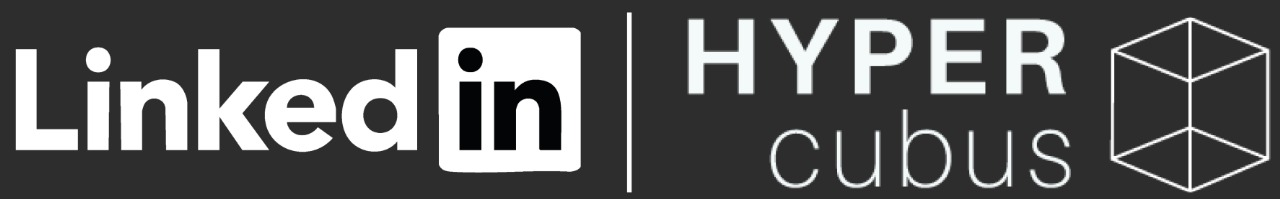
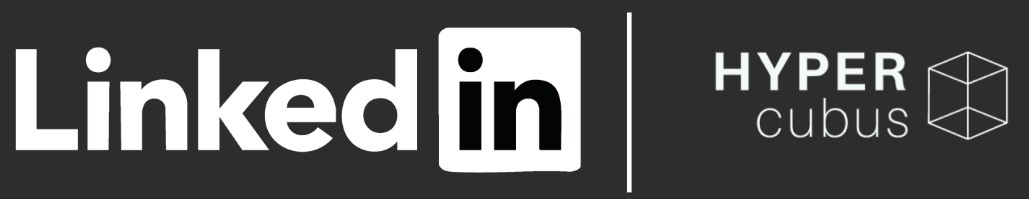
Ajustes visuales, se agrega footer y nuevas imagenes

diff --git a/src/components/cuestionario/components/ListaPreguntas.vue b/src/components/cuestionario/components/ListaPreguntas.vue
@@ -35,13 +35,6 @@
                   </div>
                 </div>
                 
-                <div class="valoracion-cuantitativa">
-                  <span v-if="respuestasLocales[pregunta.id]" 
-                        class="valor-respuesta"
-                        :class="getValorClass(respuestasLocales[pregunta.id])">
-                    {{ calcularPuntajePregunta(respuestasLocales[pregunta.id], opciones) }} puntos
-                  </span>
-                </div>
               </div>
             </div>
           </div>
@@ -93,6 +86,14 @@
           <div class="resultado-general">
             <h2 class="resultado-titulo-simple">Resultado del Diagnóstico</h2>
             
+            <div class="clasificacion-container">
+              <p class="clasificacion-mensaje">Tus procesos internos de gestión del talento humano se encuentra en
+                <span :class="['clasificacion-texto', getClasificacionClass()]">
+                  <strong>{{ getClasificacionTexto().toUpperCase() }}</strong>
+                </span>
+              </p>
+            </div>
+
             <div class="bootcamp-invitacion">
               <p class="bootcamp-mensaje">
                 Te invitamos a participar en el bootcamp donde podrás acceder a los resultados completos utilizando referentes de la industria
@@ -341,7 +342,7 @@ export default {
       if (!this.datosCompletos) {
         this.alertaTitulo = 'Datos Incompletos'
         this.alertaMensaje = 'Por favor, completa todos los <strong>datos iniciales</strong> antes de ver el resultado.'
-        this.alertaSubmensaje = 'Verifica que hayas completado: Nombre de la empresa, NIT, Sector, Número de empleados, Nombre completo de quien diligencia, Cargo y Correo electrónico.'
+  this.alertaSubmensaje = 'Verifica que hayas completado: Nombre de la empresa, NIT, Sector, Nombre completo de quien diligencia, Cargo y Correo electrónico.'
         this.mostrarAlerta = true
         return
       }
@@ -561,6 +562,46 @@ th {
   justify-content: center;
 }
 
+/* Responsive: questions (left) and answers (right) on larger screens */
+@media (min-width: 900px) {
+  .pregunta-item .pregunta-container {
+    display: flex;
+    gap: 1rem;
+    align-items: flex-start;
+  }
+
+  .pregunta-item .pregunta-header {
+    flex: 0 0 65%; /* left column: question text */
+    padding-right: 1rem;
+  }
+
+  .pregunta-item .pregunta-contenido {
+    flex: 1 1 35%; /* right column: answers */
+    display: flex;
+    align-items: center;
+    justify-content: flex-start;
+  }
+
+  /* Make radio options align to the right column nicely */
+  .pregunta-item .opciones-grupo {
+    justify-content: flex-start;
+    flex-wrap: wrap;
+  }
+}
+
+/* Mobile: stack question and answers */
+@media (max-width: 899px) {
+  .pregunta-item .pregunta-container {
+    display: block;
+  }
+  .pregunta-item .pregunta-header {
+    padding-right: 0;
+  }
+  .pregunta-item .pregunta-contenido {
+    margin-top: 0.75rem;
+  }
+}
+
 .opcion-radio {
   display: flex;
   align-items: center;
@@ -673,6 +714,30 @@ input[type="radio"]:checked {
   font-size: 1.5rem;
   color: #0067b1;
   margin: 0;
+}
+
+/* Clasificación resaltada en modal */
+.clasificacion-container {
+  margin: 1rem 0;
+  text-align: center;
+}
+
+.clasificacion-mensaje {
+  font-size: 1rem;
+  color: white;
+  margin: 0.5rem 0 1rem;
+}
+
+.clasificacion-texto {
+  font-weight: 800;
+  text-transform: uppercase;
+  margin-left: 0.25rem;
+}
+
+.clasificacion-crecimiento,
+.clasificacion-maduracion,
+.clasificacion-consolidacion {
+  color: #FFD000; /* usar color amarillo consistente */
 }
 
 .mensaje-advertencia {

diff --git a/src/components/cuestionario/Cuestionario.vue b/src/components/cuestionario/Cuestionario.vue
@@ -37,11 +37,19 @@
       </div>
     </div>
     
-    <!-- Fixed footer with LinkedIn icon -->
+    <!-- Fixed footer with three images (left, center LinkedIn, right). Images are non-clickable. -->
     <footer class="fixed-footer" role="contentinfo" aria-label="Pie de página">
-      <a href="https://www.linkedin.com" target="_blank" rel="noopener noreferrer" aria-label="LinkedIn">
-        <img class="linkedin-icon" src="https://cdn.jsdelivr.net/npm/simple-icons@v7/icons/linkedin.svg" alt="LinkedIn" />
-      </a>
+      <div class="footer-left">
+        <img src="@/assets/img-spe.jpeg" alt="SPE" class="footer-logo footer-left-logo" />
+      </div>
+
+      <div class="footer-center" aria-hidden="false">
+        <img class="linkedin-icon" src="@/assets/img-linkedin.jpeg" alt="LinkedIn" />
+      </div>
+
+      <div class="footer-right">
+        <img src="@/assets/img-supersubsidio.jpeg" alt="Supersubsidio" class="footer-logo footer-right-logo" />
+      </div>
     </footer>
   </div>
 </template>
@@ -227,11 +235,12 @@ export default {
   right: 0;
   bottom: 0;
   height: 56px;
-  background: #ffffff;
-  border-top: 1px solid #e6e6e6;
+  background: #2D2D2D;
+  border-top: 1px solid rgba(255,255,255,0.06);
   display: flex;
   align-items: center;
-  justify-content: center;
+  justify-content: space-between;
+  padding: 0 1rem;
   z-index: 10000;
 }
 
@@ -242,9 +251,35 @@ export default {
 }
 
 .linkedin-icon {
-  width: 22px;
-  height: 22px;
-  filter: invert(16%) sepia(80%) saturate(2375%) hue-rotate(1deg) brightness(100%) contrast(92%);
+  height: 100%;
+  max-height: 52px;
+  object-fit: contain;
+  display: block;
+}
+
+.footer-logo {
+  height: 36px;
+  object-fit: contain;
+  display: block;
+}
+
+/* Right-side supersubsidio logo should be larger */
+.footer-right-logo {
+  height: 48px;
+  max-height: 52px;
+}
+
+.footer-left,
+.footer-right {
+  display: flex;
+  align-items: center;
+}
+
+.footer-center {
+  display: flex;
+  align-items: center;
+  justify-content: center;
+  flex: 0 0 auto;
 }
 
 /* Ensure content is not hidden behind the fixed footer */

diff --git a/src/components/reportes/components/DatosGrid.vue b/src/components/reportes/components/DatosGrid.vue
@@ -76,12 +76,7 @@
                 {{ direccionOrden === 'asc' ? '↑' : '↓' }}
               </span>
             </th>
-            <th @click="ordenarPor('empleados')" class="sortable">
-              Número de empleados
-              <span class="sort-icon" v-if="ordenActual === 'empleados'">
-                {{ direccionOrden === 'asc' ? '↑' : '↓' }}
-              </span>
-            </th>
+            <!-- Número de empleados column removed (field no longer collected in the form) -->
             <th @click="ordenarPor('contacto')" class="sortable">
               Nombre quien diligenció
               <span class="sort-icon" v-if="ordenActual === 'contacto'">
@@ -114,7 +109,7 @@
             <td class="empresa-cell">{{ registro.empresa }}</td>
             <td>{{ registro.nit }}</td>
             <td>{{ registro.sector }}</td>
-            <td>{{ registro.empleados }}</td>
+            <!-- registro.empleados removed -->
             <td class="contacto-cell">{{ registro.contacto }}</td>
             <td>{{ registro.cargo }}</td>
             <td>{{ registro.email }}</td>
@@ -242,7 +237,7 @@ export default {
           empresa: item.company || '',
           nit: item.nit || '',
           sector: item.sector || '',
-          empleados: item.employees_number || 0,
+          // empleados field removed from grid mapping - form no longer collects it
           contacto: item.chief_name || '',
           cargo: item.company_role || '',
           email: item.chief_email || '',

diff --git a/src/components/cuestionario/components/DescripcionCuestionario.vue b/src/components/cuestionario/components/DescripcionCuestionario.vue
@@ -214,6 +214,8 @@ export default {
   box-shadow: 0 6px 2px rgba(0, 0, 0, 0.1);
   text-align: left;
   display: flex;
+  justify-content: space-between;
+  align-items: center;
 }
 
 @media (max-width: 768px) {
@@ -240,11 +242,18 @@ export default {
   font-size: 1.1rem;
 }
 
+/* Make the left content take remaining space so the percentage sits on the right */
+.pilares-analisis li > div:first-child {
+  flex: 1 1 auto;
+}
+
 .pilares-analisis .peso-categoria {
-  font-size: 1.5rem;
+  font-size: 1.1rem;
   color: #FFD000;
-  align-content: center;
-  font-weight: bold;
+  font-weight: 700;
+  min-width: 48px;
+  text-align: right;
+  margin-left: 1rem;
 }
 
 .pilares-analisis p {
